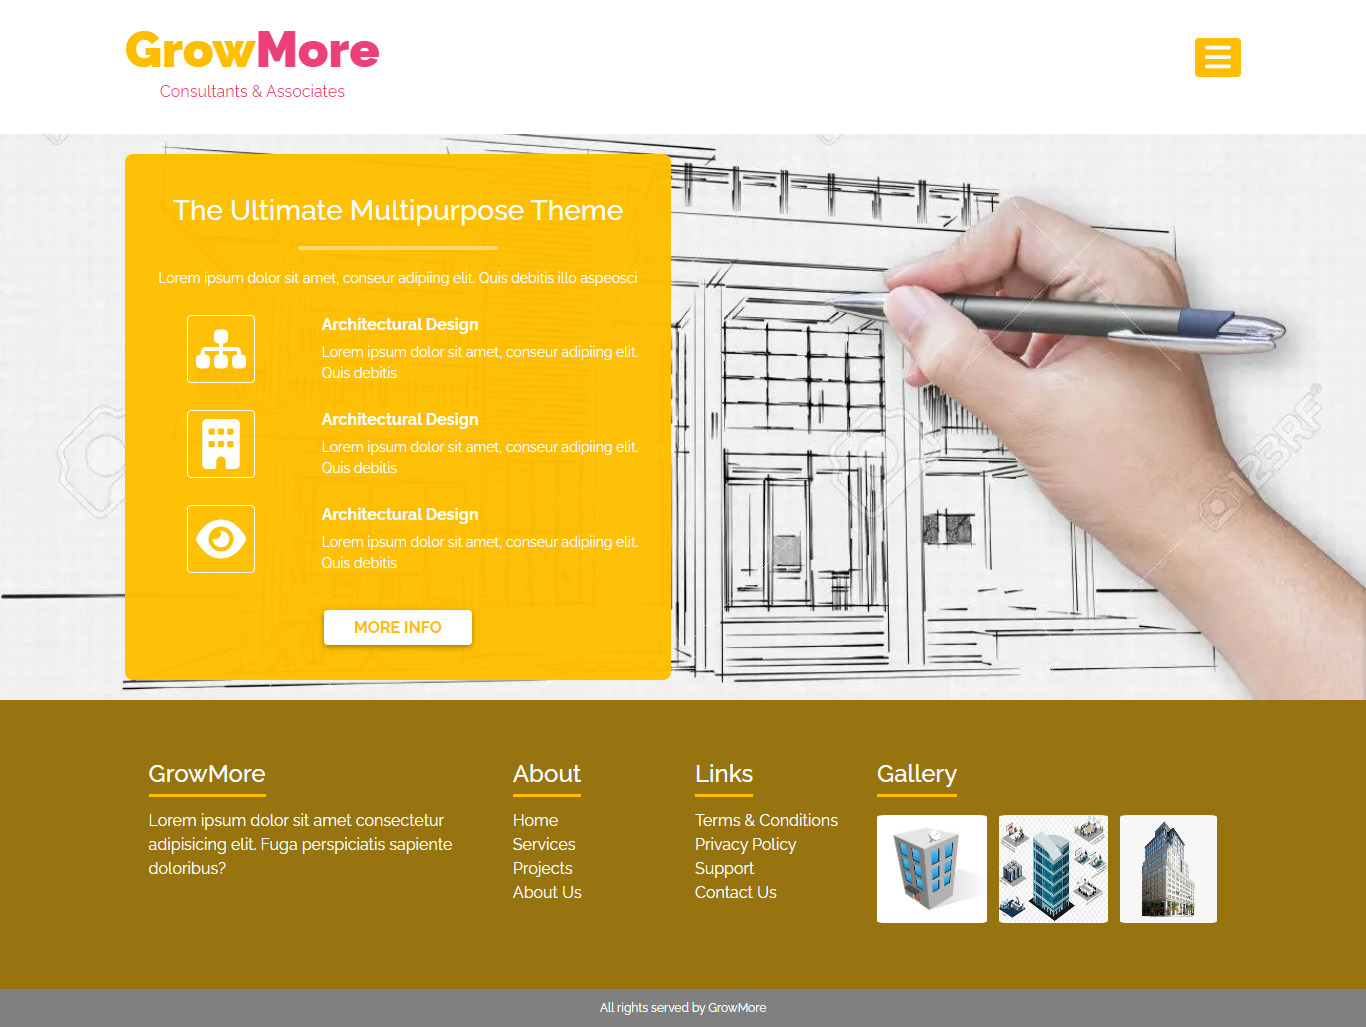
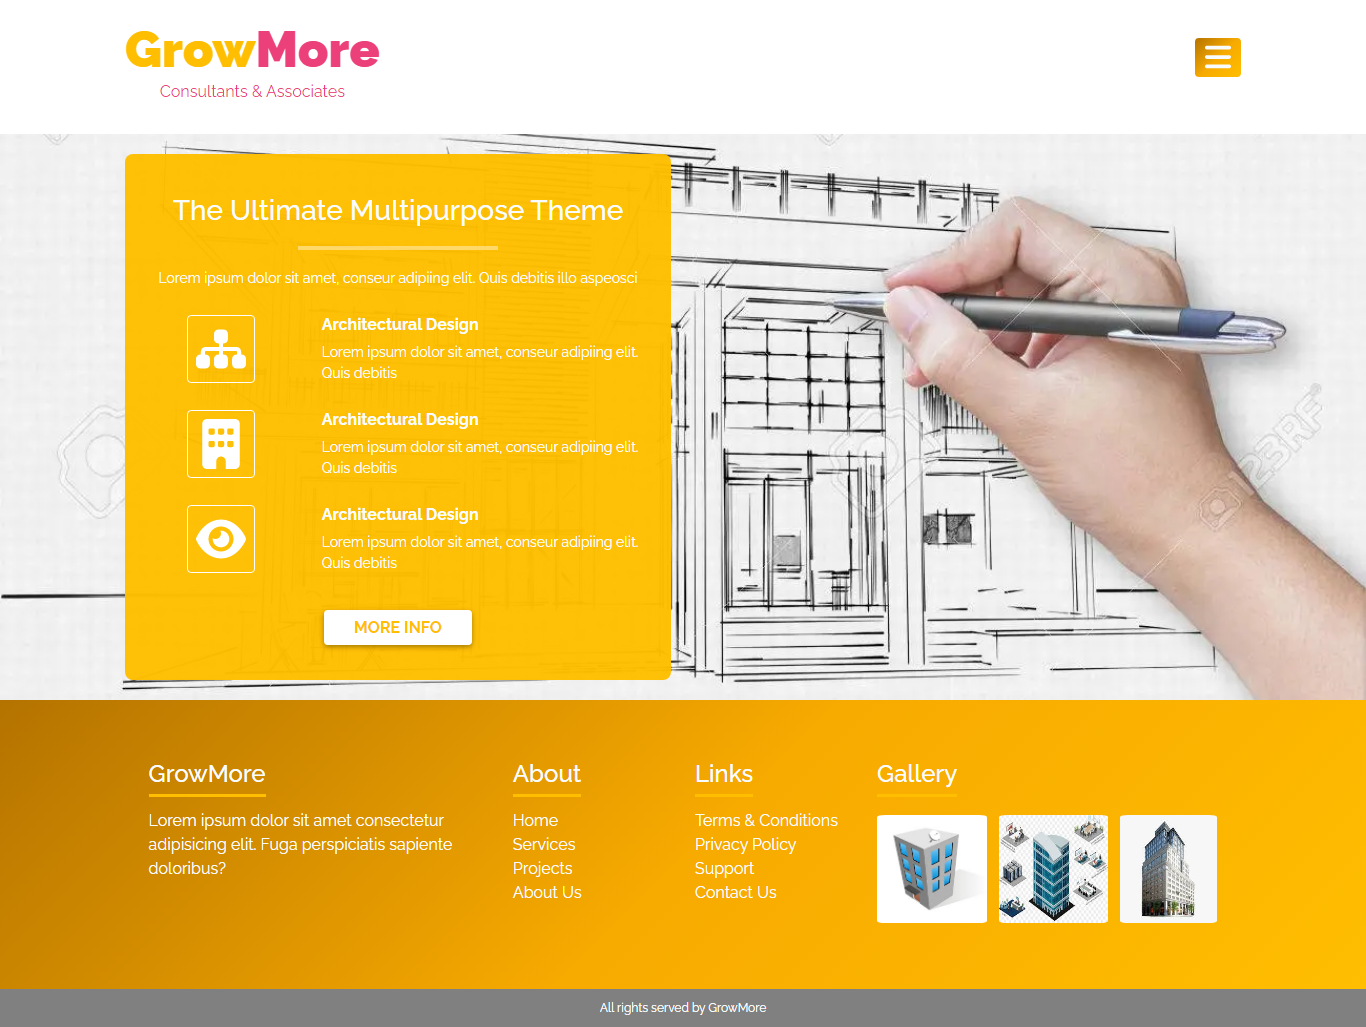
background color3

Changed region(s): [[0.0, 0.6543, 1.0, 0.9659], [0.8609, 0.0312, 0.8917, 0.0623]]

diff --git a/designColorTwo/css/style.css b/designColorTwo/css/style.css
@@ -167,14 +167,16 @@ img {
     padding-top: 38px;
 }
 .menu-bar {
-    background: linear-gradient(135deg, #3a3737,#750c2e 51%, #bb1616 0);
+    background-image: -webkit-linear-gradient(135deg, #B47300,#f7aa00 51%, #FFBE00 100%);
+
+    background-image: linear-gradient(135deg,  #B47300,#f7aa00 51%, #FFBE00 100%);
     padding: 4px 10px 2px 10px;
     border-radius: 4px;
     cursor: pointer;
     transition: all .3s;
 }
 .menu-bar:hover {
-    background: #4C2934;
+    background: #FFBE00;
 }
 
 .menu-bar .fa-bars {
@@ -211,9 +213,9 @@ img {
 }
 .header-banner {
     position: relative;
-    background-image: -webkit-linear-gradient(135deg, #3a3737,#750c2e 51%, #bb1616 100%);
+    background-image: -webkit-linear-gradient(135deg, #B47300,#f7aa00 51%, #FFBE00 100%);
 
-    background-image: linear-gradient(135deg, #3a3737,#750c2e 51%, #bb1616 100%);
+    background-image: linear-gradient(135deg,  #B47300,#f7aa00 51%, #FFBE00 100%);
     transition: .5s;
     -webkit-transition: .5s;
     height: 600px;
@@ -280,9 +282,9 @@ border-radius: 4px;
 }
 
 .footer {
-    background-image: -webkit-linear-gradient(135deg, #3a3737,#750c2e 51%, #bb1616 100%);
+    background-image: -webkit-linear-gradient(135deg, #B47300,#f7aa00 51%, #FFBE00 100%);
 
-    background-image: linear-gradient(135deg, #3a3737,#750c2e 51%, #bb1616 100%);
+    background-image: linear-gradient(135deg,  #B47300,#f7aa00 51%, #FFBE00 100%);
     transition: .5s;
     -webkit-transition: .5s;
     color: #f9fcff;
@@ -322,7 +324,7 @@ border-radius: 50%;
     padding-bottom: 12px;
 }
 .footer-item h4 span {
-    border-bottom: 3px solid #bb1616;
+    border-bottom: 3px solid #FFBE00;
     padding-bottom: 6px;
     color: #f9fcff;
 }

diff --git a/designColorOne/js/main.js b/designColorOne/js/main.js
@@ -13,15 +13,7 @@ $(document).ready(function(){
     $(document).click(function () {
         $('.menu-list').hide();
     });
-    $('.menu-bar').hover(function (e) {
 
-        // Used to stop the event bubbling..
-        e.stopPropagation()
-        $('.menu-list').toggle();
-    });
     
-    // Hide the "info_image_click" by clicking outside container
-    $(document).hover(function () {
-        $('.menu-list').hide();
-    });
+    
   });

diff --git a/designColorTwo/js/main.js b/designColorTwo/js/main.js
@@ -11,15 +11,5 @@ $(document).ready(function(){
     $(document).click(function () {
         $('.menu-list').hide();
     });
-    $('.menu-bar').hover(function (e) {
-
-        // Used to stop the event bubbling..
-        e.stopPropagation()
-        $('.menu-list').toggle();
-    });
-    
-    // Hide the "info_image_click" by clicking outside container
-    $(document).hover(function () {
-        $('.menu-list').hide();
-    });
+   
   });

diff --git a/plainOne/js/main.js b/plainOne/js/main.js
@@ -11,15 +11,5 @@ $(document).ready(function(){
     $(document).click(function () {
         $('.menu-list').hide();
     });
-    $('.menu-bar').hover(function (e) {
-
-        // Used to stop the event bubbling..
-        e.stopPropagation()
-        $('.menu-list').toggle();
-    });
-    
-    // Hide the "info_image_click" by clicking outside container
-    $(document).hover(function () {
-        $('.menu-list').hide();
-    });
+  
   });

diff --git a/simpleOne/js/main.js b/simpleOne/js/main.js
@@ -11,15 +11,5 @@ $(document).ready(function(){
     $(document).click(function () {
         $('.menu-list').hide();
     });
-    $('.menu-bar').hover(function (e) {
-
-        // Used to stop the event bubbling..
-        e.stopPropagation()
-        $('.menu-list').toggle();
-    });
-    
-    // Hide the "info_image_click" by clicking outside container
-    $(document).hover(function () {
-        $('.menu-list').hide();
-    });
+  
   });

diff --git a/designOne/js/main.js b/designOne/js/main.js
@@ -13,15 +13,5 @@ $(document).ready(function(){
     $(document).click(function () {
         $('.menu-list').hide();
     });
-    $('.menu-bar').hover(function (e) {
-
-        // Used to stop the event bubbling..
-        e.stopPropagation()
-        $('.menu-list').toggle();
-    });
-    
-    // Hide the "info_image_click" by clicking outside container
-    $(document).hover(function () {
-        $('.menu-list').hide();
-    });
+ 
   });

diff --git a/imageOne/js/main.js b/imageOne/js/main.js
@@ -11,15 +11,5 @@ $(document).ready(function(){
     $(document).click(function () {
         $('.menu-list').hide();
     });
-    $('.menu-bar').hover(function (e) {
-
-        // Used to stop the event bubbling..
-        e.stopPropagation()
-        $('.menu-list').toggle();
-    });
-    
-    // Hide the "info_image_click" by clicking outside container
-    $(document).hover(function () {
-        $('.menu-list').hide();
-    });
+ 
   });

diff --git a/imageThree/js/main.js b/imageThree/js/main.js
@@ -11,15 +11,5 @@ $(document).ready(function(){
     $(document).click(function () {
         $('.menu-list').hide();
     });
-    $('.menu-bar').hover(function (e) {
-
-        // Used to stop the event bubbling..
-        e.stopPropagation()
-        $('.menu-list').toggle();
-    });
-    
-    // Hide the "info_image_click" by clicking outside container
-    $(document).hover(function () {
-        $('.menu-list').hide();
-    });
+ 
   });

diff --git a/imageTwo/js/main.js b/imageTwo/js/main.js
@@ -11,15 +11,5 @@ $(document).ready(function(){
     $(document).click(function () {
         $('.menu-list').hide();
     });
-    $('.menu-bar').hover(function (e) {
-
-        // Used to stop the event bubbling..
-        e.stopPropagation()
-        $('.menu-list').toggle();
-    });
-    
-    // Hide the "info_image_click" by clicking outside container
-    $(document).hover(function () {
-        $('.menu-list').hide();
-    });
+ 
   });

diff --git a/designTwo/js/main.js b/designTwo/js/main.js
@@ -11,15 +11,5 @@ $(document).ready(function(){
     $(document).click(function () {
         $('.menu-list').hide();
     });
-    $('.menu-bar').hover(function (e) {
 
-        // Used to stop the event bubbling..
-        e.stopPropagation()
-        $('.menu-list').toggle();
-    });
-    
-    // Hide the "info_image_click" by clicking outside container
-    $(document).hover(function () {
-        $('.menu-list').hide();
-    });
   });

diff --git a/scaleOne/js/main.js b/scaleOne/js/main.js
@@ -11,15 +11,5 @@ $(document).ready(function(){
     $(document).click(function () {
         $('.menu-list').hide();
     });
-    $('.menu-bar').hover(function (e) {
 
-        // Used to stop the event bubbling..
-        e.stopPropagation()
-        $('.menu-list').toggle();
-    });
-    
-    // Hide the "info_image_click" by clicking outside container
-    $(document).hover(function () {
-        $('.menu-list').hide();
-    });
   });
